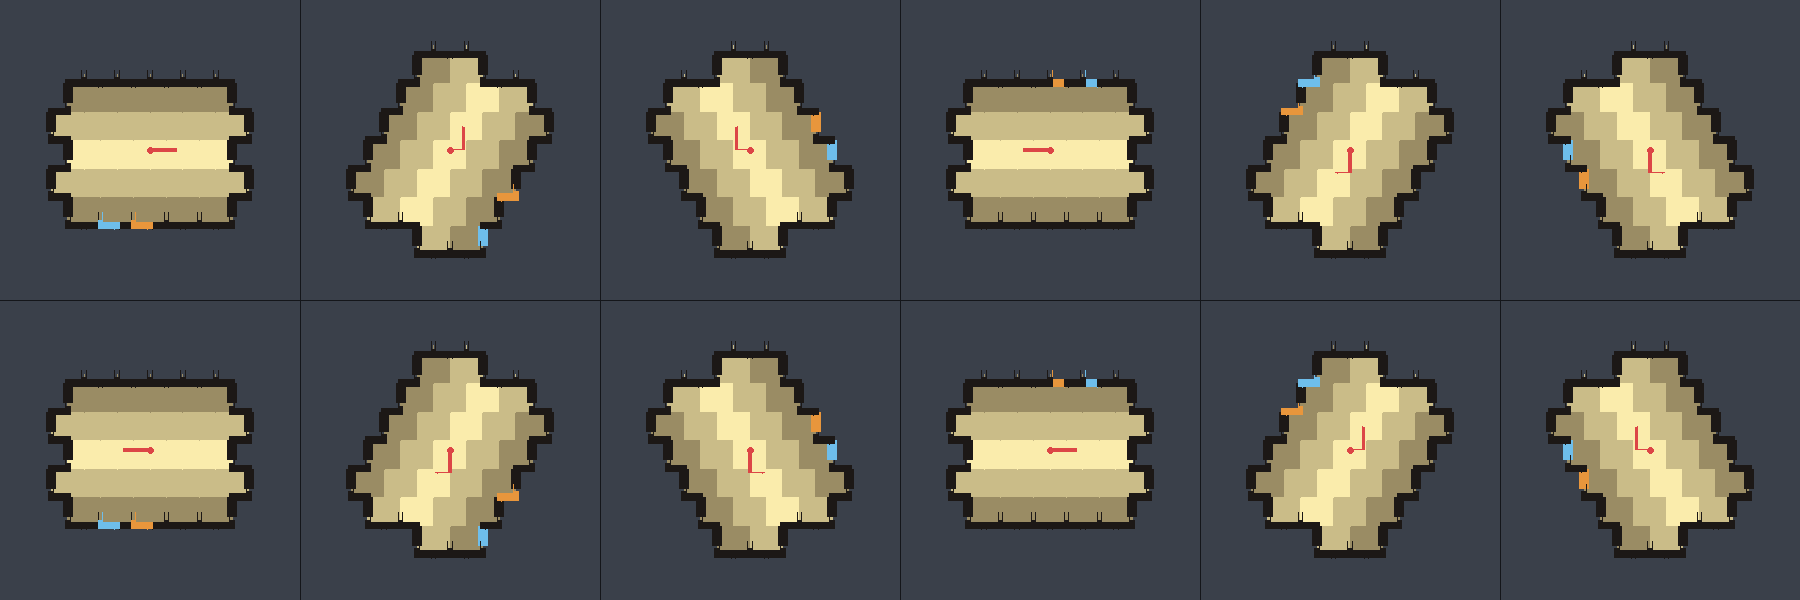
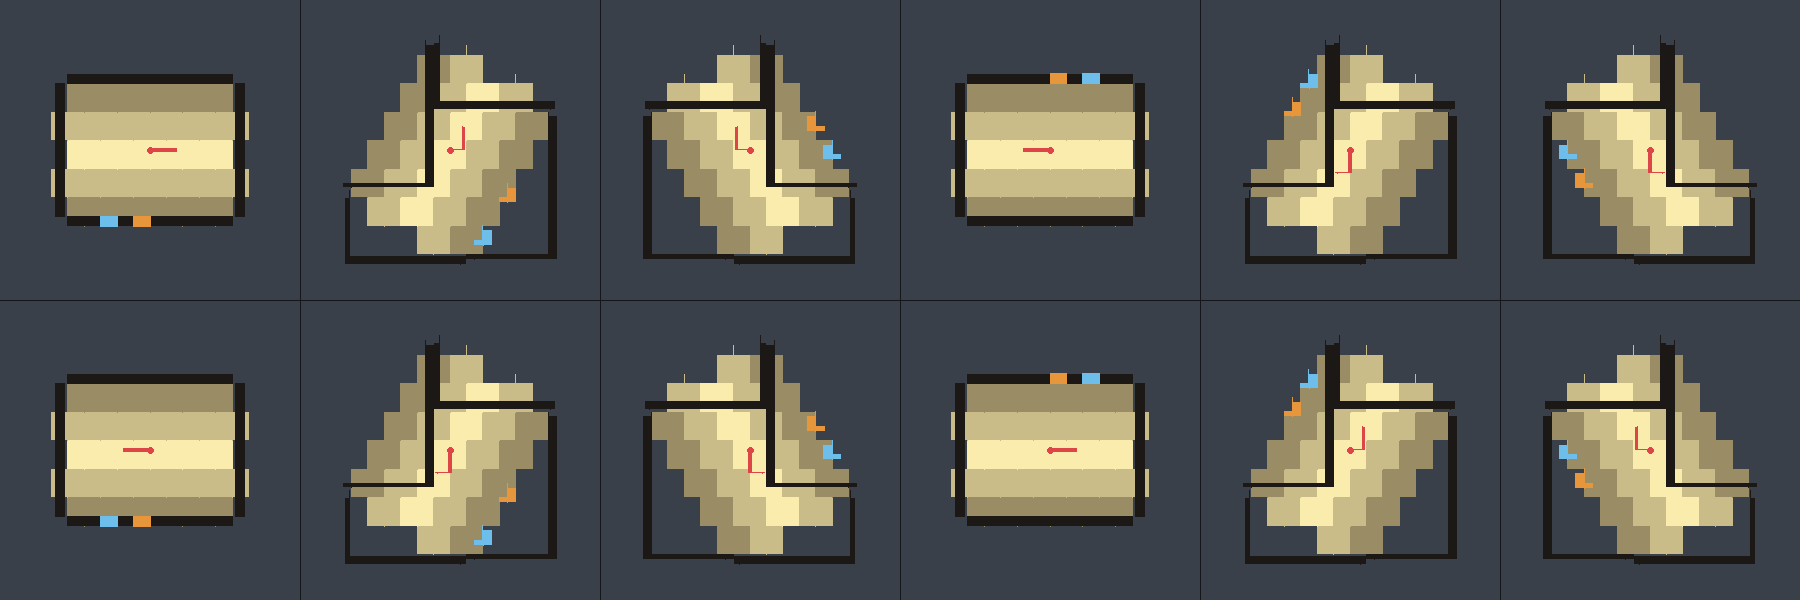
G2: every wall renders as ONE flat quad — eave_spread(fitted) = 0 (X61)
G2 asks that a wall render as one flat quad — its analytic surface — not the strip.
The surface was already exact (X47: direction exactly a heading, position an exact
rational).  What was missing was its EXTENT, so a renderer can emit the segment
instead of one strip per stored edge.

surface_span projects the run's corners onto the mean line and takes the extremes,
so BOTH endpoints lie ON the line and the quad's own perpendicular spread is
exactly 0 — measured rather than assumed, so that if the span ever stops lying on
the line the gate says so.

    side  edges  strip quads  fitted quads   band(strip)  spread(fitted)
      0      9            9             1       0.8660       0.0000
      1     10           10             1       0.5000       0.0000
      2      9            9             1       0.8660       0.0000
      3     10           10             1       0.5000       0.0000

    the house: 38 stored edges -> 38 strip quads, or 4 fitted quads

CONTROL: the strip being replaced must actually wobble — its band is non-zero on
every side (X47's 0.866 / 0.5 wu on the two families).  If it were 0 the fit would
be removing nothing and G2 would be vacuous.

`make shot` STRAIGHTENS.  houseshot drew walls "as they are stored: one strip per
boundary edge"; it now draws the fitted quad, and each feature as an INTERVAL on
that surface — which is what FEATURES says a feature is ("a door is [s0,s1] along
[…]

diff --git a/CLAUDE.md b/CLAUDE.md
@@ -38,7 +38,7 @@ crawler's prototypes and design docs are **design tries** — input, not authori
 | **T3 · designed** | a doc argues a construction | **input to design, never truth** |
 | **T4 · schema** | a shape read from **untested** code (`../moros`) | shape real, behaviour unverified — cherry-pick, then gate here |
 
-**T1 holds `X1`, `X2`, `X19`–`X22`, `X24`–`X60`** — eight of them re-measured *here*, and
+**T1 holds `X1`, `X2`, `X19`–`X22`, `X24`–`X61`** — eight of them re-measured *here*, and
 `X26`–`X31` **discovered here**. Everything else the design leans on is still a try or a schema
 (notably the whole foxel schema, `X11`–`X15`), and the census is where it gets re-measured. Citing a T2 number as settled is
 the specific mistake to avoid — in either direction: re-deriving what is genuinely gated wastes
@@ -73,7 +73,7 @@ Full map with one-liners: [`README.md`](README.md) § *Lineage*.
 
 | file | role | authority |
 |---|---|---|
-| **`ROUNDTRIP.md`** | the **settled formal core** — the lattice, objects, the foxel, maps, the `D`/`E₂` contract with its **proved** propositions, the two recovery regimes, and the constraints `X1`–`X60` **with trust tiers** | **authoritative** on any object or map |
+| **`ROUNDTRIP.md`** | the **settled formal core** — the lattice, objects, the foxel, maps, the `D`/`E₂` contract with its **proved** propositions, the two recovery regimes, and the constraints `X1`–`X61` **with trust tiers** | **authoritative** on any object or map |
 | **`plans/m0-roundtrip/DESIGN.md`** | the **in-flight half** — proposed laws, the grammar, `fits?`, the seam, the corpus, the method, the gates, and the **open decisions**. Everything here is a proposal or a question | **cite nothing from it as fact** |
 | **`SPEC.md`** | goals **G**, limits **L**, invariants **I**, contracts **K** — short, falsifiable, each with a control | authoritative on *what must be achieved* |
 | `VISION` · `ARCHITECTURE` · `design/*` | *why* — reference only | **never the build input** |
@@ -137,6 +137,17 @@ Needs `../loft` and `../loft-libs-world` as siblings. **`--lib` reads the WORKIN
 check that `loft-libs-world` is on branch `dev` before debugging anything strange.
 
 ## State (2026-07-24)
+
+- **`G2` is half done, `X61`.** The wall now renders as **ONE flat quad per side** — its analytic
+  surface — not one strip per stored edge: **38 stored edges → 4 quads**, `eave_spread(fitted)` is
+  **exactly 0**, and `make shot` straightens (features draw as **intervals on the surface**, which is
+  `FEATURES`' own model). Control: the strip it replaces spreads by `X47`'s band (0.866 / 0.5 wu).
+- ⚠ **The fitted render made the missing CORNER MITER visible** — adjacent quads do not miter, so a
+  rotated house shows corner gaps. That is `I-CORNER` parts 2/4, the **`SURFACE_LANDED` tripwire S4
+  left standing for exactly this moment** — not a new defect. Flipping that flag fails the gate
+  until the real corner checks are written, which is the design.
+- **`plans/m0-roundtrip/shots/house12.png` was regenerated** — a review image (`L9`), not a gated
+  baseline; `make test` never checked it.
 
 - **Eighteen gates, all green** — `make test` runs `tools/run_tests.sh`.
   Form, wall (~3 min), box, census, text, house, surface, arc (A6 + A7), combine (A8), seam
@@ -324,7 +335,7 @@ check that `loft-libs-world` is on branch `dev` before debugging anything strang
   collision is all single-frame; a **posed body against the world** (two frames, a continuous pose)
   was a T3 design, never built. hexbody's first measurement closes the two constants `DESIGN.md` §7
   left OPEN. The **pose transform is the sole float step** (`src/hexframe.loft`); everything else is
-  integer (`X1`–`X60`), so `ε_seam` is the whole error budget.
+  integer (`X1`–`X61`), so `ε_seam` is the whole error budget.
 - **The instrument is a Pythagorean pose** (cos 4/5, sin 3/5): the transform maps rationals to
   rationals, so an **exact integer oracle** exists and the float pipeline's disagreement with it IS
   the seam band. `ε_seam ≈ 7.1e-15` (machine ε); a routed query agrees with the oracle on all 1681
@@ -487,8 +498,8 @@ check that `loft-libs-world` is on branch `dev` before debugging anything strang
   unnecessary" by free poses) · **OD-5** is the flip exact (`X2` says yes) · **OD-9** does a door
   survive as an *annotation* when an edge has one `material` slot — the doored-tower defect
   relocated into the schema, and rung A5's real question.
-- **Constraints are in `ROUNDTRIP.md` §7 (X1–X60) with trust tiers.** T1 now holds `X1`, `X2`,
-  `X19`–`X22`, `X24`–`X60`; do not re-derive those. Everything else is still a try or a schema.
+- **Constraints are in `ROUNDTRIP.md` §7 (X1–X61) with trust tiers.** T1 now holds `X1`, `X2`,
+  `X19`–`X22`, `X24`–`X61`; do not re-derive those. Everything else is still a try or a schema.
 - **Two unmeasured constants:** `ε_seam` and the `κ≥3` contention rate (`plans/m0-roundtrip/DESIGN.md` §7).
   `D` is **closed** — all 24 headings are representable (**X3**).
 - `hexedge` / `hexway` / `hexroof` are byte-identical copies of crawler's. No drift yet; their

diff --git a/ROUNDTRIP.md b/ROUNDTRIP.md
@@ -505,6 +505,7 @@ result without re-gating it forfeits exactly what this project is for.
 | **X50** | **A CONTINUOUS MODEL PARAMETER MUST BE QUANTISED TO WHAT THE FIELD DISTINGUISHES** — measured independently three times and landing identically each time: line **endpoints** → hex vertices a whole number of periods apart (§10.10), feature **`t`** → edge centres `(2i+1)/2n` (`X48`), arc **radius** → shells (`X49`). Off the grid a value is **silently snapped, not rejected**, so `fits?` must refuse it at the doorstep — otherwise the round trip reports success on a model the author did not write | **T1** ✅ | the three gates above, together |
 | **X51** | **the doored tower is R1 as ONE arc — a feature composes with an arc at no cost** — a door on a tower is a **material override on a span of the wall's boundary edges** (`arc_door_wedge`), never a deletion. Arc recovery (`arc_recover_centre` / `arc_shell_max`) consumes only the **cells**, and a door touches only edge **materials**, so the doored tower's centre and shell come back **byte-identical** to the plain tower and the door reads straight off storage (`17` edges annotated, `17` recovered, no fit). This is the **named doored-tower defect refused by construction** (`design/FEATURES.md` §3): the door API can only re-material, so the defect is unreachable through it. Measured on a shell-108 tower: three doors annotated leave the arc unchanged and the wall **one closed loop** (0 ends); deleting the three spans instead fragments the wall into **3 arcs** (6 ends), and notching the disk's cells **loses the arc** (centre not found) | **T1** ✅ | **`tests/arc.loft`** §5 — controls: deleting the doors must give 3 arcs; a notched disk must not recover as an arc |
 | **X52** | **two adjacent stencils are "mark all, THEN cut once" — order-free by construction, and the shared edge fuses** — re-measuring crawler's `cut_arb` (`EXTRACTION.md`; **T2 → T1** here). Do not draw each stencil's walls and overlay them; **union the footprints, then cut the boundary of the union once**, tagging each edge with its cell's source material (`combine_cut`). Because that reads only the finished union and a fixed source map — never stamp order — `combine(A,B) == combine(B,A)` byte-for-byte (the overlap tie-break is the **lower id**, intrinsic, so order-freeness holds for overlapping stencils too). The **shared edge is interior to the union, so it is never cut**: nobody owns it, two adjacent stencils **fuse** into one fabric (`X4` / law **K₂**; DESIGN §8.0.1). Distinguishability lands exactly right — the merged composite is **field-identical to the single stencil of the union** (the authoring split is not recoverable, and by **P1** need not be), while a composite that **behaves** differently (an authored sealed wall) **is** field-distinct. The naive per-body overlay breaks all three: it is order-dependent (7 edges) and marks a spurious seam wall (7 edges). Exact, no float. **Not covered:** `ε_seam` / `κ ≥ 3` (posed bodies, different frames — the seam here is exact because both live in the world frame), overlap arbitration by nearest surface, linework, terrain, levels | **T1** ✅ | **`tests/combine.loft`** — controls: the per-body overlay must depend on order and must mark the seam; a behavioural difference must be field-distinct |
+| **X61** | **`G2` — every wall renders as ONE flat quad, and `eave_spread(fitted) = 0`** — the surface was already exact (`X47`: direction exactly a heading, position an exact rational); what `G2` needed was its **extent**, so a renderer can emit the segment instead of one strip per stored edge. `surface_span` projects the run's corners onto the mean line and takes the extremes, so both endpoints lie **on** the line and the quad's own perpendicular spread is **exactly 0** — measured, not assumed. On the 5×4 house: **38 stored edges → 38 strip quads, or 4 fitted quads**, one per side. Control: the strip being replaced spreads by the band `X47` measured (`0.8660` / `0.5000` wu on the two families) — if that were 0 the fit would remove nothing and `G2` would be vacuous. `make shot` now draws the fitted quad, with each feature as an **interval on that surface** (`FEATURES`' own model) rather than the edge it is stored on. ⚠ **What the fitted render makes visible:** adjacent quads **do not miter**, so a rotated house shows corner gaps — that is `I-CORNER` parts 2 and 4, the `SURFACE_LANDED` tripwire S4 deliberately left standing for exactly this moment, not a new defect | **T1** ✅ (the fit) / **OPEN** (the corner miter) | **`tests/surface.loft`** §8 — control: the strip's band must be non-zero on every side |
 | **X60** | **a stencil carries a wall in any in-between direction, the run READS BACK EXACTLY, and the ROUND TRIP NOTICES IF IT IS DROPPED** — `OD-13`'s core, closed. An embedded wall is a **material on INTERIOR edges** (both cells in the footprint), so the footprint is untouched and form recovery reads a slot the run never writes. **THE READER NEEDS NO FIT:** a run's two chain ends *are* its endpoints, they are hex vertices, and the doorstep put the authored ones exactly there — `wall_read_run` recovers `(d, anchor, p)` by a degree count and one integer division. **THE ROUND TRIP CARRIES IT:** `Draft` = form + embedded run, and `write(rebuild(draw(read(T)))) = T` **byte-for-byte over all 12 in-between directions**. Crucially the **silent-drop hole is closed** — the design named `rebuild` as the one site whose omission is silent, and now **dropping the run fails the trip in 12 of 12**. Controls: a wall drawn as a **gap** breaks the trip; a **fragmented** marking is refused (`P4`); a **two-`wall`-line** record is refused, not repaired (`X39`). **AND THE DOORSTEP REFUSES WHAT WOULD NOT ROUND-TRIP** (law **C₁** / `K-FIT`): `draft_fits` returns a **named** reason — centre anchor, zero periods, bad direction, an endpoint off the period grid, or a run leaving the footprint — and `draft_fit_p` **offers the nearest shorter run that does fit**, never a blank no. Measured against the trip itself: **0 disagreements and 0 false accepts**, and a refused 9-period run is offered `p = 3`, which itself fits. ⚠ **Still open:** only **one** run per stencil — several need the interior edges split into connected components first. ⚠ **A retracted claim:** an earlier version recorded *"only 4 of 12 directions fit, structural, unexplained"*. It was neither — `interior_count` mixed `nb_q`/`nb_r` with hex_grid's corner order (`SPEC` **L11**, `X26`'s mode), the same root cause as three failed reader instruments; and an 8.5-minute widened search "confirmed" the wrong number because it shared the broken helper. With one convention throughout, **all 12 fit** | **T1** ✅ | **`tests/embed.loft`** — controls: a gap must break the trip; a fragmented chain and a malformed record must be refused; **dropping the run must fail the trip** |
 | **X59** | **seating writes the `height` slot and nothing else, so terrain and stencil are ORTHOGONAL — and the slope's cost is a flagged residual** — `OD-4`'s open half. Its schema half was already settled (terrain *is* `height`, "the same slot as roofs"); what stayed open was **seating** a flat-authored stencil on ground that is not flat, which `SPEC` **G5** requires to leave a *"residual flagged"*. Measured on a 15-cell stencil over flat ground and a `0.75/q` slope: **0 cell diffs, 0 edge diffs**, and `rebuild` returns the **authored text** identically on both — the round trip does not notice the terrain at all, because the recovery reads **cells** and seating writes **heights**. The slope's real cost is the **residual** (the largest gap between the seat height and the ground beneath), **returned rather than absorbed**: `0.000` flat, `1.650` on the slope. Which height to seat at is a **policy** — low `3.000`, mean `1.650` (smallest), high `3.000` — and it moves the residual while leaving recovery untouched, the same split `A6` found between `Sep` and `X7`. **This is the third instance of one pattern:** a door is a *material* not a hole (`X51`), a level is a *filter before the cut* not an arbitration after it (`X58`), terrain is a *height* not a change of footprint — **the round trip survives a new feature exactly when that feature lands in a slot the recovery does not read** | **T1** ✅ | **`tests/terrain.loft`** — controls: flat ground must report residual `0`; a seating that **clips** the footprint to the ground (9 of 15 cells) must **break** the round trip, or orthogonality is a restatement of the construction |
 | **X58** | **the BRIDGE GUARANTEE — two things on different LEVELS never contend, because a level filters BEFORE the cut** — re-measuring crawler's `bridgetest` (**T2 → T1** here). A **level** is the topological *sheet* a thing sits on — OSM's `layer` tag, and the `layer*` axis the foxel already carries at the top of its schema (§2.4; moros's `cy`). **It is not a height** — the actual `z` comes from the surface/feature interval. The whole fixture is **one pair of overlapping stencils drawn twice with only the level integer different**, which is crawler's own framing: *"the SAME two ways, at the same level, are a level crossing; at different levels, a bridge. Nothing about the ways changes — only the sheet."* Measured: **same level** → they fuse (shared edges `0`, per `X52`) and contend (`κ = 2`); **different levels** → each sheet holds one stencil alone (30 edges each), `κ = 1` at *both*, and the shared boundary becomes **7 real wall edges** instead of fusing. So the level does work `κ` would otherwise have to (`X4`, `DESIGN` §6.1): different sheets never fuse, never arbitrate, never contend. **And level 0 is free** — the level-aware path is byte-identical to the level-blind `combine_cut` (0 diffs), so the common case pays nothing for a feature it does not use | **T1** ✅ | **`tests/level.loft`** — control: flattening the levels must restore fusion (`7 → 0`) and contention (`κ 1 → 2`) and reproduce the level-crossing field exactly |
@@ -518,7 +519,7 @@ result without re-gating it forfeits exactly what this project is for.
 | **X29** | **the in-between 12 of `D` are inexact by a UNIFORM bias — now `1.1021°`** — no odd multiple of 15° is reachable at all (`X31`), so the in-between directions carry a fixed offset. What matters and is gated is that it is a **uniform bias, not scatter**: all twelve share it, spread `0.0000°`, and the even 12 are exact to `0.0000°`. *The value was `4.1066°` while the vector was the sum of the two adjacent headings (`N = 21`); `X56` changed the vector to `N = 39` and the bias with it.* This is why **a house is never drawn with an in-between angle** — they are world linework (`D`), where nothing has to close or meet a corner | **T1** ✅ | **`tests/wall.loft`** §2 — printed per direction; controls require the offset be non-zero **and uniform across all 12**, so the constraint survives a change of vector |
 
 > **What is settled, and what is still leaned on.** T1 now holds `X1`, `X2`, `X19`–`X22`,
-> `X24`–`X60`. Of those, **eight were re-measured *here*** — `X1`, `X2`, `X20`, `X24`, `X25` by
+> `X24`–`X61`. Of those, **eight were re-measured *here*** — `X1`, `X2`, `X20`, `X24`, `X25` by
 > `tests/form.loft` (steps **S0**/**S1**), and `X26`–`X29` by `tests/wall.loft`. Still below the
 > line and still leaned on: the **24-direction cost** (`X3` — `X29` has now re-measured its
 > *accuracy* here, but not its cost), the **wall-band validation** (`X10`), and the whole **foxel

diff --git a/SPEC.md b/SPEC.md
@@ -25,7 +25,7 @@ check is not in the spec. `IDs are stable`; cite them in a plan's Blueprint gate
 |---|---|---|
 | **G0** ✅ | `housedraw`: floor/walls/openings/roof at all 12 orientations, cells **and** edges equivariant | `tests/house.loft` green |
 | **G1** | moving body: a part on a revolute joint moves by derived motion; wheel angle `= travel/radius`; each part carries a bounded proxy | `bodytest` |
-| **G2** | the fit: every wall renders as **one** flat quad (its analytic surface), not the strip | `eave_spread(fitted)=0` + `make shot` straightens |
+| **G2** ◑ | the fit: every wall renders as **one** flat quad (its analytic surface), not the strip | **`eave_spread(fitted)=0` GATED** (`X61`, `tests/surface.loft` §8): 38 stored edges → **4** fitted quads, spread exactly 0, control = the strip's own band is non-zero. **`make shot` straightens** — it now draws the fitted quad, features as intervals on it. ⚠ Remaining: adjacent quads do not **miter**, so a rotated house shows corner gaps — `I-CORNER` parts 2/4, the `SURFACE_LANDED` tripwire |
 | **G3** | interaction: two bodies of different scale interact iff swept volumes cross, at any `dt` | interaction gate |
 | **G4** | the train: a coupled car+wagon follows a curve, wheels `= travel/radius`, wagon in line, detaches on decouple | vehicle gates |
 | **G5** ◑ | editor: a building in every orientation from **one authoring pass**, seated on terrain, residual flagged | editor + placement gates. **The seating half is gated** (`X59`, `tests/terrain.loft`): the `height` slot is orthogonal to the footprint so the round trip is untouched, and the residual is **returned**, not absorbed — control: a seating that clips the footprint breaks the trip |